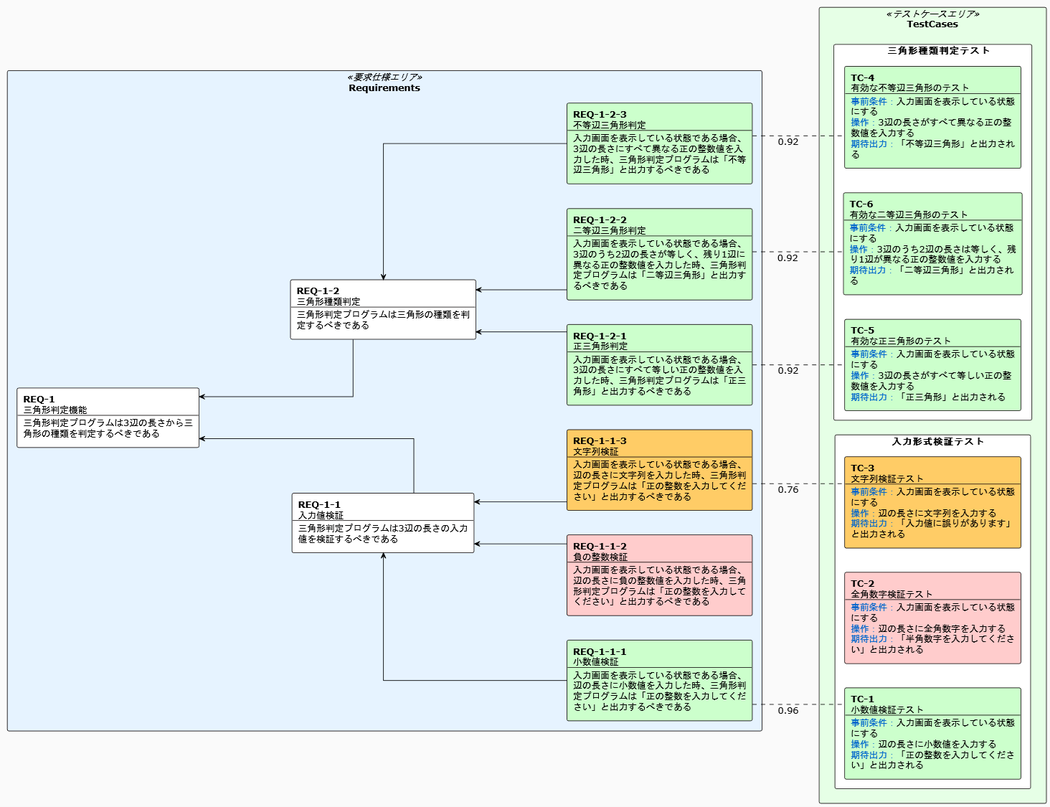
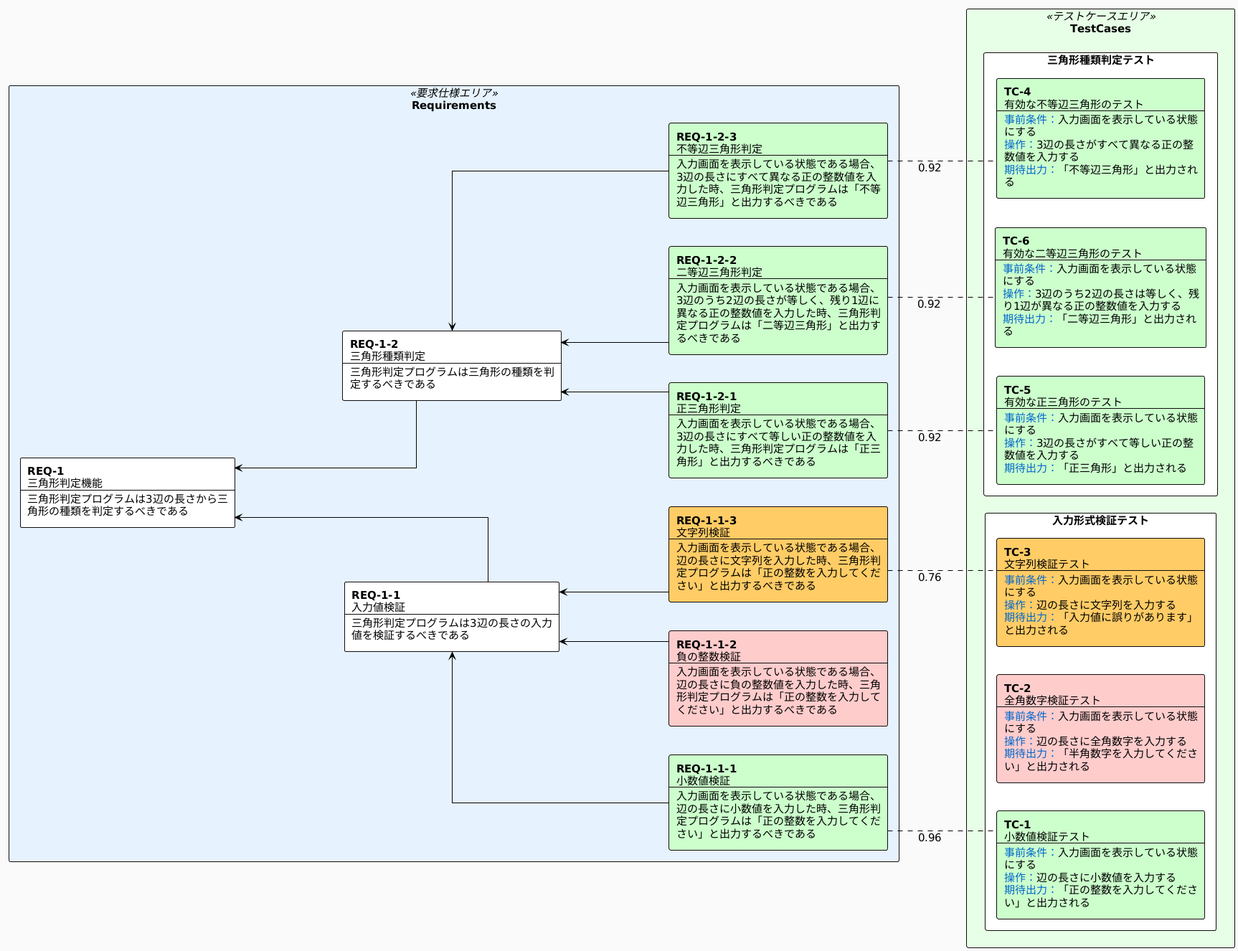
okもらった

diff --git a/chapters/04-implementation.tex b/chapters/04-implementation.tex
@@ -5,7 +5,7 @@
 
 \begin{figure}[tp]
     \begin{center}
-            \includegraphics[width=18cm]{images/system.png}
+            \includegraphics[width=0.96\textwidth]{images/system.png}
             \caption{\tool のシステム構成}
             \label{fig:system}
     \end{center}
@@ -228,7 +228,7 @@
             \item triggerプロパティに``トリガー''をキーとした値を代入する。
             \item responseプロパティに``システム応答''をキーとした値を代入する。
         \end{enumerate}
-        \item 生成した要求仕様情報オブジェクトを、$1$. で用意したリストに追加する。
+        \item 生成した要求仕様情報オブジェクトを、$1$. で用意したリストの末尾に追加する。
     \end{enumerate}
     \item 要求仕様情報オブジェクトのリストを出力する。
 \end{enumerate}
@@ -244,22 +244,22 @@
 本処理の流れを、以下に示す。
 \begin{enumerate}
     \item 設定ファイルvitt.yamlからsystem\_nameの値を取得する。
-    \item 入力として受け取った要求仕様情報オブジェクトのリストにある要求仕様情報オブジェクトの数だけ、以下の処理を繰り返す。
+    \item 入力として受け取った要求仕様情報オブジェクトのリストの要素数、すなわち、要求仕様情報オブジェクトの数だけ、以下の処理を繰り返す。
     \begin{enumerate}
-        \item 要求仕様情報オブジェクトのリストから、未処理の要求仕様情報オブジェクトを1つ取り出す。
+        \item 要求仕様情報オブジェクトのリストの先頭から、未処理の要求仕様情報オブジェクトを1つ取り出す。
         \item 要求仕様文の部分文字列を格納する空のリストを用意する。
         \item $2$.(a)で取り出した要求仕様情報オブジェクトからprecondition、trigger、responseの各プロパティの値を取得する。
         \item 取得した各プロパティの値に応じて、以下の処理を行う。
         \begin{enumerate}
             \item preconditionプロパティの値が空文字列でない場合\\
-            ``\{precondition\}場合''という形式の部分文字列を$2$.(b)で用意したリストに追加する。
+            ``\{precondition\}場合''という形式の部分文字列を$2$.(b)で用意したリストの末尾に追加する。
             \item triggerプロパティの値が空文字列でない場合\\
-            ``\{trigger\}時''という形式の部分文字列を$2$.(b)で用意したリストに追加する。
+            ``\{trigger\}時''という形式の部分文字列を$2$.(b)で用意したリストの末尾に追加する。
             \item responseプロパティの値が空文字列でない場合\\
             $1$.で取得したsystem\_nameの値とresponseプロパティの値を用いて、
-            ``\{system\_name\}は\{response\}べきである''という形式の部分文字列を$2$.(b)で用意したリストに追加する。
+            ``\{system\_name\}は\{response\}べきである''という形式の部分文字列を$2$.(b)で用意したリストの末尾に追加する。
         \end{enumerate}
-        \item リスト内の部分文字列を読点(、)で結合し、要求仕様文を生成する。
+        \item リスト内の部分文字列を先頭から順に読点(、)で結合し、要求仕様文を生成する。
         \item 生成した要求仕様文を、$2$.(a)で取得した要求仕様情報オブジェクトのdescriptionプロパティに代入する。
     \end{enumerate}   
     \item 要求仕様情報オブジェクトのリストを出力する。
@@ -268,7 +268,7 @@
 \subsubsection{対応付け可否判定処理}\label{subsubsec:req_traceability}
 対応付け可否判定処理は、各要求仕様がテストケースと対応付け可能かどうかを判定する処理である。
 具体的には、要求仕様文生成処理が出力した要求仕様情報オブジェクトのリストを入力とし、テストケースと対応付け可能かどうかを示すis\_traceableプロパティに値を代入した状態の要求仕様情報オブジェクトのリストを出力する。
-本研究では、類似度算出処理(\ref{subsec:similarity_calculation}節で後述)において、\cref{tb:traceability}に示す、
+本研究では、類似度算出処理(\ref{subsec:similarity_calculation}節で後述)において、\cref{tb:traceability}に示した、
 要求仕様の対応付け要素 (「前提条件」、「トリガー」、「システム応答」)とテストケースの対応付け要素 (「事前条件」、「操作」、「期待出力」)のそれぞれのテキスト間の類似度を算出し、
 その結果に基づいて対応関係抽出処理(\ref{sec:traceability_extraction_processing}節で後述)において、要求仕様とテストケースの対応関係を抽出する。
 そのため、\ref{sec:words}節で述べた、対応付け不可能な要求仕様は、テストケースとの対応付けの対象外と判定する。
@@ -276,9 +276,9 @@
 
 本処理の流れを、以下に示す。
 \begin{enumerate}
-    \item 入力として受け取った要求仕様情報オブジェクトのリストにある要求仕様情報オブジェクトの数だけ、以下の処理を繰り返す。
+    \item 入力として受け取った要求仕様情報オブジェクトのリストの要素数、すなわち、要求仕様情報オブジェクトの数だけ、以下の処理を繰り返す。
     \begin{enumerate}
-        \item 要求仕様情報オブジェクトのリストから、未処理の要求仕様情報オブジェクトを1つ取り出す。
+        \item 要求仕様情報オブジェクトのリストの先頭から、未処理の要求仕様情報オブジェクトを1つ取り出す。
         \item 取り出した要求仕様情報オブジェクトからprecondition、trigger、responseの3つのプロパティの値を取得する。
         \item 取得した3つのプロパティの値によって、以下の処理を行う。
         \begin{itemize}
@@ -324,7 +324,7 @@
 本処理の流れを、以下に示す。
 \begin{enumerate}
     \item 入力として受け取った要求仕様情報オブジェクトのリストから、idプロパティの値をキー、リスト内の要求仕様情報オブジェクトへの参照を値とする辞書を生成する。
-    \item 要求仕様情報オブジェクトのリストにある要求仕様情報オブジェクトの数だけ、以下の処理を繰り返す。
+    \item 要求仕様情報オブジェクトのリストの要素数、すなわち、要求仕様情報オブジェクトの数だけ、以下の処理を繰り返す。
     \begin{enumerate}
         \item 要求仕様情報オブジェクトのリストから、未処理の要求仕様情報オブジェクトを1つ取り出す。
         \item 取り出した要求仕様情報オブジェクトのidプロパティの値をハイフン(\texttt{-})で分割し、分割結果の要素数を確認する。
@@ -378,7 +378,7 @@
                 \item expected\_outputプロパティに``期待出力''をキーとした値を代入する。
                 \item test\_suiteプロパティに$2$.(b)で保持したテストスイート名を代入する。
             \end{enumerate}
-            \item 生成したテストケース情報オブジェクトを、$1$.で用意したリストに追加する。
+            \item 生成したテストケース情報オブジェクトを、$1$.で用意したリストの末尾に追加する。
         \end{enumerate}
     \end{enumerate}
     \item テストケース情報オブジェクトのリストを、テストケース情報リストとして出力する。
@@ -471,7 +471,7 @@
     \item 入力解析部 (\cref{sec:input-data-analysis}参照) の出力である、要求仕様情報リストとテストケース情報リストを入力として読み込む。
     \item 要求仕様情報リストが持つ要求仕様情報オブジェクトの数だけ、以下の処理を繰り返し、要求仕様形態素データを生成する。
     \begin{enumerate}
-        \item 要求仕様情報リストから、未処理の要求仕様情報オブジェクトを$1$つ取り出す。
+        \item 要求仕様情報リストの先頭から、未処理の要求仕様情報オブジェクトを$1$つ取り出す。
         \item 取り出した要求仕様情報オブジェクトが対応付け不可能な要求仕様の場合(is\_traceableプロパティの値がfalseの場合)\\
             以降の処理は行わず、$2$.(a)の処理に戻る。
         \item 取り出した要求仕様情報オブジェクトから、要求仕様IDおよび$3$つの対応付け要素(「前提条件」、「トリガー」、「システム応答」)の文字列を抽出する。
@@ -507,7 +507,7 @@
     \end{enumerate}
     \item テストケース情報リストが持つテストケース情報オブジェクトの数だけ、以下の処理を繰り返し、テストケース形態素データを生成する。
     \begin{enumerate}
-        \item テストケース情報リストから、未処理のテストケース情報オブジェクトを$1$つ取り出す。
+        \item テストケース情報リストの先頭から、未処理のテストケース情報オブジェクトを$1$つ取り出す。
         \item 取り出したテストケース情報オブジェクトから、テストケースIDおよび$3$つの対応付け要素(「事前条件」、「操作」、「期待出力」)の文字列を抽出する。
         \item 抽出した$3$つの対応付け要素のそれぞれの文字列について、$2$.(d)と同様の処理を実行する。
         \item テストケースIDと$3$つの対応付け要素の形態素情報リストから成る、テストケース形態素データを生成する。
@@ -551,7 +551,7 @@
     \item 形態素解析処理の出力である、要求仕様形態素データリストとテストケース形態素データリストを入力として読み込む。
     \item 要求仕様形態素データリストが持つ要求仕様形態素データの数だけ、以下の処理を繰り返し、要求仕様重要単語データを生成する。
     \begin{enumerate}
-        \item 要求仕様形態素データリストから、未処理の要求仕様形態素データを1つ取り出す。
+        \item 要求仕様形態素データリストの先頭から、未処理の要求仕様形態素データを1つ取り出す。
         \item 取り出した要求仕様形態素データから、要求仕様IDおよび3つの対応付け要素の形態素情報リストを抽出する。
         図\ref{fig:important_words}の①に、図\ref{fig:morpheme_info_list}におけるトリガーの形態素情報リストを抽出した例を示す。
 
@@ -607,7 +607,7 @@
 
     \item テストケース形態素データリストが持つテストケース形態素データの数だけ、以下の処理を繰り返し、テストケース重要単語データを生成する。
     \begin{enumerate}
-        \item テストケース形態素データリストから、未処理のテストケース形態素データを$1$つ取り出す。
+        \item テストケース形態素データリストの先頭から、未処理のテストケース形態素データを$1$つ取り出す。
         \item 取り出したテストケース形態素データから、テストケースIDおよび$3$つの対応付け要素の形態素情報リストを抽出する。
         \item $2$.(c)と同様の処理を実行する。
         \item テストケースIDと$3$つの対応付け要素の重要単語リストから成る、テストケース重要単語データを生成する。
@@ -671,7 +671,7 @@
 
         \item $4$.(a)で抽出した要求仕様IDとテストケースID、$4$.(b)で算出した各対応付け要素間の類似度、
         および、$4$.(c)で算出した合計スコア$S_{\text{total}}$を対応付け情報オブジェクトとして、
-        $3$.で用意した対応付け情報リストに追加する。
+        $3$.で用意した対応付け情報リストの末尾に追加する。
     \end{enumerate}
 \end{enumerate}
 
@@ -687,34 +687,34 @@
     \item 空のリストAを用意する。
     \item 対応付け情報リスト内の対応付け情報オブジェクトの数だけ、以下の処理を繰り返す。
     \begin{enumerate}
-        \item 対応付け情報リストから、未処理の対応付け情報オブジェクトを1つ取り出す。
+        \item 対応付け情報リストの先頭から、未処理の対応付け情報オブジェクトを1つ取り出す。
         \item 取り出した対応付け情報オブジェクトから、合計スコアを取得する。
         \item 取得した合計スコアが、$2$.で取得した類似度の閾値以上であるかを検証する。
         \begin{itemize}
             \item 閾値未満の場合\\
             $4$.(a)の処理に戻り、 対応付け情報リスト内の、次の対応付け情報オブジェクトを処理する。
             \item 閾値以上の場合\\
-            $3$.で用意したリストAに、対応付け情報オブジェクトを追加する。
+            $3$.で用意したリストAの末尾に、対応付け情報オブジェクトを追加する。
         \end{itemize}
     \end{enumerate}
     \item $3$.で用意したリストAを、合計スコアの降順にソートする。
     \item 空のリストBを用意する。
     \item $5$.でソートしたリストA内の、対応付け情報オブジェクトの数だけ、以下の処理を繰り返す。
     \begin{enumerate}
-        \item リストAから、未処理の対応付け情報オブジェクトを1つ取り出す。
+        \item リストAの先頭から、未処理の対応付け情報オブジェクトを1つ取り出す。
         \item 取り出した対応付け情報オブジェクトから、要求仕様IDおよびテストケースIDを取得する。
         \item $6$.で用意したリストB内に、$7$.(b)で取得した要求仕様IDまたはテストケースIDを持つ対応付け情報オブジェクトがすでに存在するかを検証する。
         \begin{itemize}
             \item 要求仕様IDまたはテストケースIDが、すでに存在する場合\\
             $7$.(a)の処理に戻り、リストA内の、次の対応付け情報オブジェクトを処理する。
             \item 要求仕様IDおよびテストケースIDが、存在しない場合\\
-            取り出した対応付け情報オブジェクトを、$6$.で用意したリストBに追加する。
+            取り出した対応付け情報オブジェクトを、$6$.で用意したリストBの末尾に追加する。
         \end{itemize}
     \end{enumerate}
     \item 空のリストCを用意する。
     \item $6$.で用意したリストB内の対応付け情報オブジェクトの数だけ、以下の処理を繰り返す。
     \begin{enumerate}
-        \item リストBから、未処理の対応付け情報オブジェクトを1つ取り出す。
+        \item リストBの先頭から、未処理の対応付け情報オブジェクトを1つ取り出す。
         \item 取り出した対応付け情報オブジェクトから、$3$つの対応付け要素間の類似度(「前提条件」と「事前条件」、「トリガー」と「操作」、「システム応答」と「期待出力」)を取得する。
         \item 取得した3つの類似度が、$2$.で取得した類似度の閾値以上であるかをそれぞれ確認し、閾値以上である類似度の数を数える。
         \item 閾値以上である類似度の数に応じて、品質種別を決定する。
@@ -724,7 +724,7 @@
             \item 閾値以上である類似度の数が$1$つまたは$2$つの場合(1つまたは2つが閾値以上の類似度の場合)\\
             品質種別を\texttt{PARTIAL}とする。
         \end{itemize}
-        \item 対応付け情報オブジェクトの情報と$9$.(d)で決定した品質種別から、対応関係情報オブジェクトを生成し、$8$.で用意したリストCに追加する。
+        \item 対応付け情報オブジェクトの情報と$9$.(d)で決定した品質種別から、対応関係情報オブジェクトを生成し、$8$.で用意したリストCの末尾に追加する。
     \end{enumerate}
     \item リストCを、対応関係情報リストとして出力する。
 \end{enumerate}
@@ -734,7 +734,7 @@
 TCVダイアグラム生成部は、本研究で提案する、テストケースの可視化を目的としたTCVダイアグラム(\ref{sec:testcase_visualization_diagram}節参照)を生成する処理部である。
 具体的には、入力解析部から受け取った要求仕様情報リストおよびテストケース情報リストと、対応関係分析部から受け取った対応関係情報リストの3つを入力とし、
 PlantUML(\ref{sec:PlantUML}節参照)を用いてTCV ダイアグラムを生成する。
-さらに、生成した TCV ダイアグラムをローカルサーバーを介して配信し、ユーザーがWebブラウザから確認できるようにする。
+さらに、生成した TCV ダイアグラムをローカルサーバーを介して配信し、ユーザーが任意のWebブラウザから確認できるようにする。
 
 本処理部が生成するPlantUMLコードの例を図\ref{fig:puml_code1}に、TCVダイアグラムの例を図\ref{fig:tcv_diagram_4.3}に、それぞれ示す。
 
@@ -877,7 +877,7 @@ PlantUMLコード生成処理は、TCVダイアグラムを生成するための
     \item テストケースエリアの生成
     \begin{enumerate}
         \item テストケースエリアの開始タグ「\{」を、変数puml\_codeに格納する。
-        \item テストケース情報リストをtest\_suiteプロパティの値でグループ化し、各グループについて、以下の処理を繰り返す。
+        \item テストケース情報リストの要素をtest\_suiteプロパティの値でグループ化し、各グループについて、以下の処理を繰り返す。
         \begin{enumerate}
             \item test\_suiteプロパティの値をテストスイート名として、テストスイートエリアの開始タグ「\{」を、変数puml\_codeに格納する。
             \item グループ内のすべてのテストケース情報オブジェクトについて、以下の処理を繰り返す。
@@ -916,7 +916,7 @@ PlantUMLコード生成処理は、TCVダイアグラムを生成するための
 \subsection{TCVダイアグラム出力処理}\label{subsec:diagram-generation-process}
 TCVダイアグラム出力処理は、PlantUMLコード生成処理(\ref{subsec:puml-generation}節参照)で生成したPlantUMLコードから、TCVダイアグラムを出力する処理である。
 具体的には、PlantUMLコード生成処理で生成したPlantUML コードを入力とし、TCV ダイアグラムをローカルサーバーを介して配信する。
-なお、ユーザーは、任意のWebブラウザ上で「http://localhost:8000」にアクセスすることで、TCVダイアグラムを確認できる。
+なお、ユーザーは、任意のWebブラウザを立ち上げて、そのブラウザ上でURL「http://localhost:8000」にアクセスすることで、TCVダイアグラムを確認できる。
 
 本処理の流れを、以下に示す。
 \begin{enumerate}

diff --git a/chapters/07-conclusion.tex b/chapters/07-conclusion.tex
@@ -16,7 +16,7 @@ TCVダイアグラムは、以下を可視化する。
         \item テストケースの抜け\\
         ある要求仕様をテストするテストケースが存在しない状態
         \item テストケースの不備\\
-        ある要求仕様をテストするテストケースは存在するが、内容が要求仕様に対して不十分な状態
+        ある要求仕様をテストするテストケースは存在するが、テストケースの内容が要求仕様に対して不十分な状態
         \item テストケースの過剰\\
         テストケースは存在するが、テストする要求仕様が存在しない状態
     \end{itemize}
@@ -25,16 +25,16 @@ TCVダイアグラムは、以下を可視化する。
 適用例を用いて、本研究で試作した\tool{}が、
 正しくTCVダイアグラムを出力することを確認した。
 
-\tool{}の有用性を確認するため、\tool{}を使用した場合と使用しなかった場合で評価実験を行った。
+\tool{}の有用性を確認するため、\tool{}を使用した場合と使用しなかった場合の評価実験を行った。
 評価実験では、意図的に含めたテストケースの過不足箇所を、
 被験者が全て発見するまでにかかる時間を測定した。
 この結果、組$\alpha$(閏年判定システム)に対して、
 テストケースの過不足箇所の発見にかかる時間を平均で4分28秒(約81.5\%)削減できた。
 また、組$\beta$(成績付けシステム)に対して、
 テストケースの過不足箇所の発見にかかる時間を平均で3分54秒(約80.7\%)削減できた。
-また、評価実験において、\tool{}を使用した場合、テストケースの過不足箇所の発見漏れはなかったが、
-\tool{}を使用しなかった場合、テストケースの過不足箇所の発見漏れがあった。
-これより、\tool{}は、テストケースの過不足箇所の発見に有用であることを確認した。
+また、評価実験において、\tool{}を使用した場合に、テストケースの過不足箇所の発見漏れはなかったが、
+\tool{}を使用しなかった場合は、テストケースの過不足箇所の発見漏れがあった。
+これらより、\tool{}は、テストケースの過不足箇所の発見に有用であることを確認した。
 
 以上のことから、\tool{}は、テストケースと要求仕様書の対応関係の確認にかかる時間の削減に有用であるといえる。
 
@@ -43,16 +43,16 @@ TCVダイアグラムは、以下を可視化する。
 \begin{itemize}
     \item 要求仕様とテストケースの一対一以外の対応関係の抽出\\
     現状の\tool{}では、入力対象のテストスイート(\ref{subsec:testsuite}節参照)の条件において、
-    「各テストケースは1つの要求仕様のみを検証対象とし、
-    同一の要求仕様を検証するテストケースは複数存在しない」としている。
+    「各テストケースは1つの要求仕様のみをテストの対象とし、
+    同一の要求仕様をテストするテストケースは複数存在しない」としている。
     そのため、1つの要求仕様に対して複数のテストケースが存在する場合や、
-    1つのテストケースが複数の要求仕様を同時に検証する場合を対象としていないため、対応する必要がある。
+    1つのテストケースが複数の要求仕様を同時にテストする場合を対象としていないため、対応する必要がある。
 
     \item 対応付けのパラメータの設定における問題の解消\\
     \tool{}の機能を使用する際、ユーザーは、初期設定(\ref{sec:config}節参照)で記述する設定ファイルvitt.yamlにおいて、
     要求仕様とテストケースの対応関係の有無を判定する際に用いるパラメータを、適切に指定する必要がある。
     しかし、これらのパラメータの最適な値は、対象とするシステムによって異なるため、
-    ユーザーが試行錯誤しながら調整する必要があり、手間と時間がかかることから、対応する必要がある。
+    ユーザーが何度も試行錯誤しながら調整する必要があり、手間と時間がかかることから、対応する必要がある。
 
     \item TCVダイアグラムのスケーラビリティの問題の解消\\
     \tool{}が出力するTCVダイアグラムは、全ての要求仕様の矩形要素とテストケースの矩形要素を、1つの図として表示する。

diff --git a/chapters/00-abstract.tex b/chapters/00-abstract.tex
@@ -23,9 +23,9 @@
 ソフトウェアの活用範囲の拡大と複雑化に伴い、ソフトウェア品質の重要性が高まっている。
 ソフトウェア品質を確保する工程として、ソフトウェアテストがある。
 ソフトウェアテストを実施する準備段階として用意するものの1つに、テストケースがある。
-テストケースとは、実行事前条件、入力値、アクション(適用可能な場合)、期待結果、および実行事後条件のセットであり、
-テスト条件に基づいて開発されたものである。
-このテストケースの品質を確保するには、テストケースと要求仕様の対応関係(トレーサビリティ)を明確にすることが重要である。
+テストケースは、実行事前条件、入力値、アクション(適用可能な場合)、期待結果、および実行事後条件のセットであり、
+テスト条件に基づいて記述する。
+テストケースの品質を確保するためには、テストケースと要求仕様の対応関係(トレーサビリティ)を明確にすることが重要である。
 テストケースの書き方として、テンプレートやフォーマットが提供されており、
 これらの必要項目を記述することによって、テストケースは作成できる。
 
@@ -51,7 +51,7 @@ TCVダイアグラムは、以下を可視化する。
         \item テストケースの抜け\\
         ある要求仕様をテストするテストケースが存在しない状態
         \item テストケースの不備\\
-        ある要求仕様をテストするテストケースは存在するが、内容が要求仕様に対して不十分な状態
+        ある要求仕様をテストするテストケースは存在するが、テストケースの内容が要求仕様に対して不十分な状態
         \item テストケースの過剰\\
         テストケースは存在するが、テストする要求仕様が存在しない状態
     \end{itemize}
@@ -60,16 +60,16 @@ TCVダイアグラムは、以下を可視化する。
 適用例を用いて、本研究で試作した\tool{}が、
 正しくTCVダイアグラムを出力することを確認した。
 
-\tool{}の有用性を確認するため、\tool{}を使用した場合と使用しなかった場合で評価実験を行った。
+\tool{}の有用性を確認するため、\tool{}を使用した場合と使用しなかった場合の評価実験を行った。
 評価実験では、意図的に含めたテストケースの過不足箇所を、
 被験者が全て発見するまでにかかる時間を測定した。
 この結果、組$\alpha$(閏年判定システム)に対して、
 テストケースの過不足箇所の発見にかかる時間を平均で4分28秒(約81.5\%)削減できた。
 また、組$\beta$(成績付けシステム)に対して、
 テストケースの過不足箇所の発見にかかる時間を平均で3分54秒(約80.7\%)削減できた。
-また、評価実験において、\tool{}を使用した場合、テストケースの過不足箇所の発見漏れはなかったが、
-\tool{}を使用しなかった場合、テストケースの過不足箇所の発見漏れがあった。
-これより、\tool{}は、テストケースの過不足箇所の発見に有用であることを確認した。
+また、評価実験において、\tool{}を使用した場合に、テストケースの過不足箇所の発見漏れはなかったが、
+\tool{}を使用しなかった場合は、テストケースの過不足箇所の発見漏れがあった。
+これらより、\tool{}は、テストケースの過不足箇所の発見に有用であることを確認した。
 
 以上のことから、\tool{}は、テストケースと要求仕様書の対応関係の確認にかかる時間の削減に有用であるといえる。
 

diff --git a/chapters/01-introduction.tex b/chapters/01-introduction.tex
@@ -4,9 +4,10 @@
 ソフトウェア品質の重要性が高まっている\cite{BBC}。
 ソフトウェア品質を確保する工程として、ソフトウェアテストがある。
 ソフトウェアテストを実施する準備段階として用意するものの1つに、テストケースがある\cite{jstqb_syllabus}。
-テストケースとは、実行事前条件、入力値、アクション(適用可能な場合)、期待結果、および実行事後条件のセットであり、
-テスト条件に基づいて開発されたものである\cite{istqb_glossary}。
-このテストケースの品質を確保するには、テストケースと要求仕様の対応関係(トレーサビリティ)を明確にすることが重要である\cite{jstqb_syllabus}。
+テストケースは、実行事前条件、入力値、アクション(適用可能な場合)、期待結果、および実行事後条件のセットであり、
+テスト条件に基づいて記述する\cite{istqb_glossary}。
+テストケースの品質を確保するためには、テストケースと要求仕様の対応関係(トレーサビリティ)を明確にすることが重要である\cite{jstqb_syllabus}。
+
 テストケースの書き方として、テンプレートやフォーマットが提供されており\cite{shift_testcase}\cite{minna_testcase}、
 これらの必要項目を記述することによって、テストケースは作成できる。
 しかし、テストケースと要求仕様との対応関係を確認することは、
@@ -31,7 +32,7 @@ TCVダイアグラムは、以下を可視化する。
         \item テストケースの抜け\\
         ある要求仕様をテストするテストケースが存在しない状態
         \item テストケースの不備\\
-        ある要求仕様をテストするテストケースは存在するが、内容が要求仕様に対して不十分な状態
+        ある要求仕様をテストするテストケースは存在するが、テストケースの内容が要求仕様に対して不十分な状態
         \item テストケースの過剰\\
         テストケースは存在するが、テストする要求仕様が存在しない状態
     \end{itemize}
